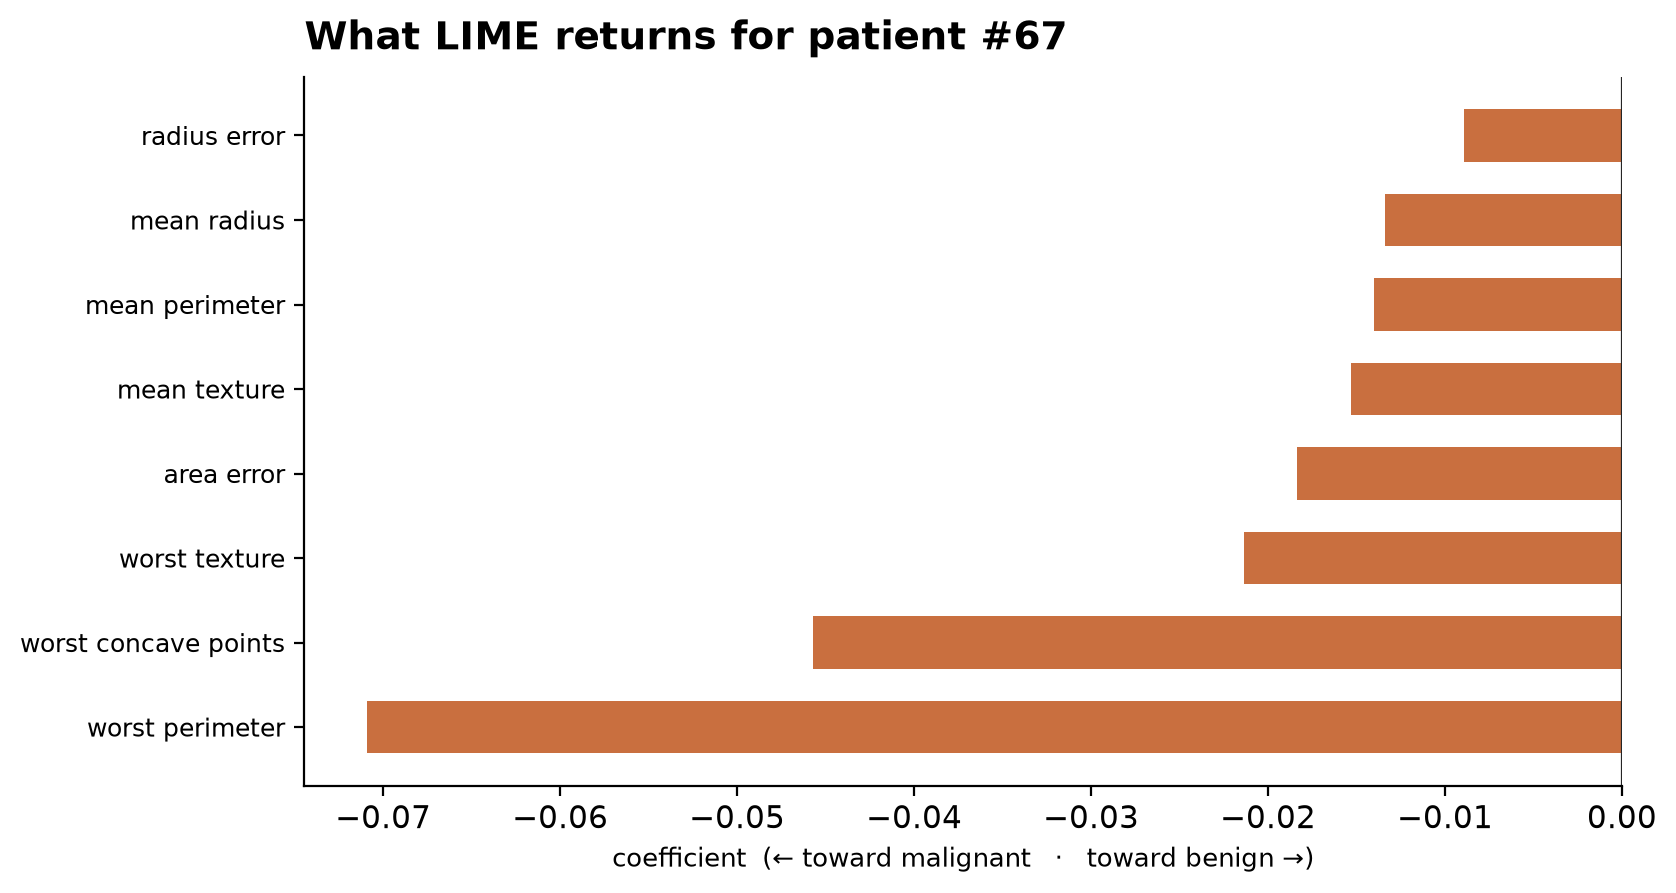
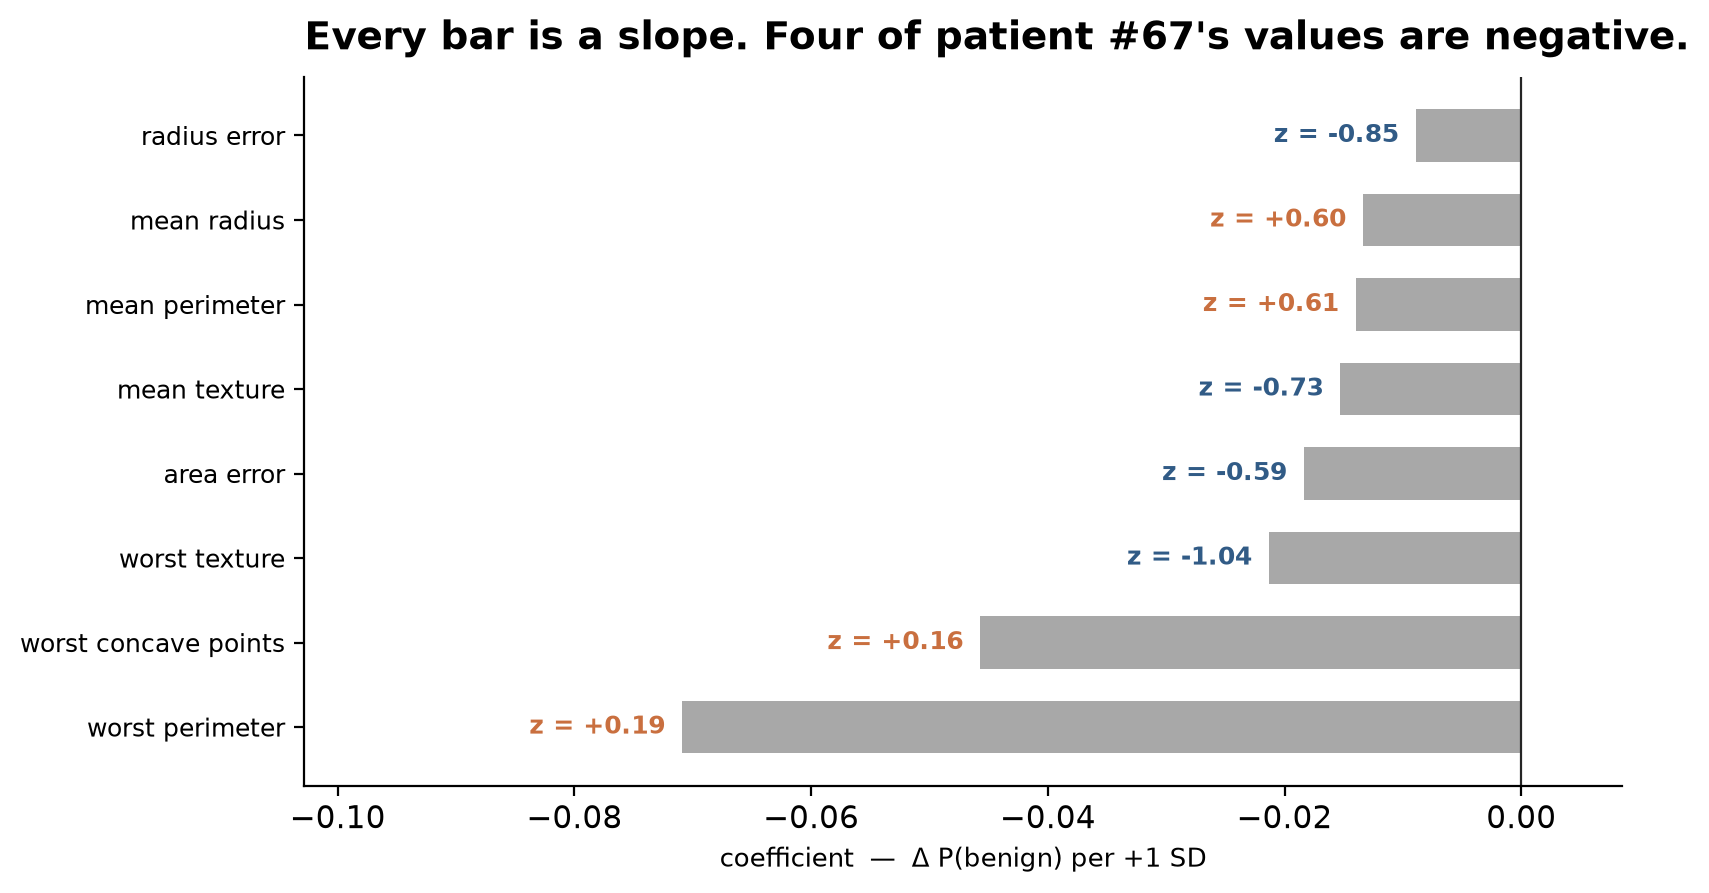
fix(03-lime): a coefficient is a slope, not a per-patient contribution
The walkthrough, the outline and the committed bar chart all said the same
wrong thing: "every coefficient is negative, so on this patient all eight
selected measurements push toward malignant, and the remaining 22 features
carry the verdict". Both halves fail, and the second is backwards.

A coefficient is dP(benign)/dz — the change if that measurement moved one
standard deviation. What it did to THIS patient is slope x her value. Four of
patient #67's eight values sit below the training mean, and there a negative
slope argues for BENIGN. It is 4 of 8, and it holds across 21 seed x
num_features runs; one-at-a-time ablation on the forest agrees with the sign
of coef*z in 7 of 8 features and with the bare coefficient in 3 of 8.

On the "22 features carry the verdict" claim: refit the surrogate on all 30
with the same weights and the 22 dropped features contribute +0.0009 while
the 8 contribute +0.0169. The gap between g(x) = 0.4968 and f(x) = 0.5812 is
the surrogate failing to track the model at R² = 0.357, not features left out.

What changed:

- The chart no longer colours bars by sign — that colouring is lime's own
  "supports / opposes" semantics, which is only valid in its DISCRETIZED
  default, where the interpretable features are binary, the instance is 1 on
  all of them (lime_tabular.py:545) and the coefficient IS the contribution.
  With discretize_continuous=False the bar reverts to a slope and the colour
[…]

diff --git a/modules/03-lime/lecture/outline.md b/modules/03-lime/lecture/outline.md
@@ -197,10 +197,34 @@ in 5 of 8 runs.
   run it. A good exam question, and an easy experiment to assign.
 
 Then show `lime_step_6b_coefficients.png` — the bar chart is what the library
-returns and what practitioners read. Every coefficient is negative here: all
-eight selected measurements push toward malignant, and the model still says
-benign. The remaining 22 features and the forest's nonlinearity carry the
-verdict, and a local linear summary structurally cannot show that.
+returns and what practitioners read.
+
+**Say the unit before anything else, because this is where the lecture used to
+be wrong.** Every coefficient is negative, but a coefficient is a *slope*:
+dP(benign)/dz, the change if that measurement moved one standard deviation. It
+is not what the measurement did to *this* patient, which is slope times her
+value. Four of her eight values sit below the mean — they are printed on the
+bars — and there a negative slope argues for **benign**. It is 4 of 8, and it
+holds across 21 seed x num_features runs.
+
+An earlier version of this outline said "all eight push toward malignant, so
+the remaining 22 features carry the verdict". Both halves are wrong, and the
+second is backwards: refit the surrogate on all 30 features and the 22 dropped
+ones contribute **+0.0009**. The gap between g(x) = 0.4968 and f(x) = 0.5812 is
+the surrogate failing to track the model at R² = 0.357, not features left out.
+Keep the error in the lecture — it is the cleanest example in the module of a
+plot that is correct and a reading that is not.
+
+Two things to have ready. *"What is the contribution then?"* — there is none
+without a declared reference, since `g(x) - g(r) = sum c_j (x_j - r_j)`; the
+notebook prints the sum under four references and it changes sign. *"What if I
+run LIME with the defaults?"* — the unanimity disappears: with
+`discretize_continuous=True` the same patient gives four negative and four
+positive bars and g(x) = 0.5591. In that mode the interpretable features are
+binary and the instance is 1 on all of them, so coefficient *is* contribution —
+which is the mode the library's bar chart was designed for, and the reason it
+misleads once discretization is off. Molnar's chapter plots
+`effect = weight x value` for the same reason.
 
 Close with extrapolation: push the top feature far enough and the fit predicts
 a negative probability.
